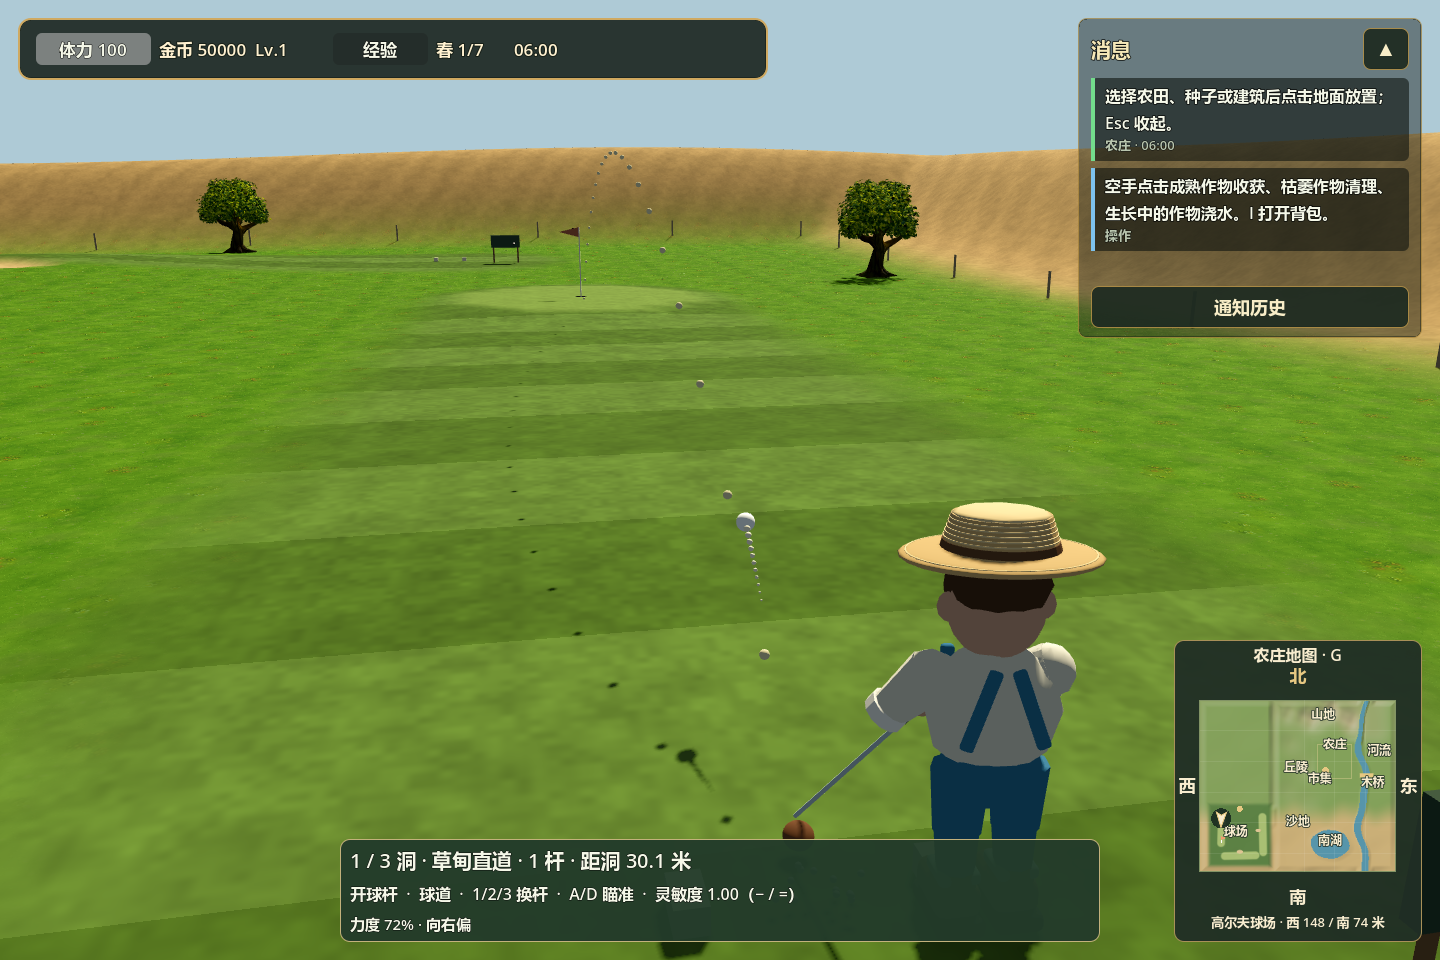
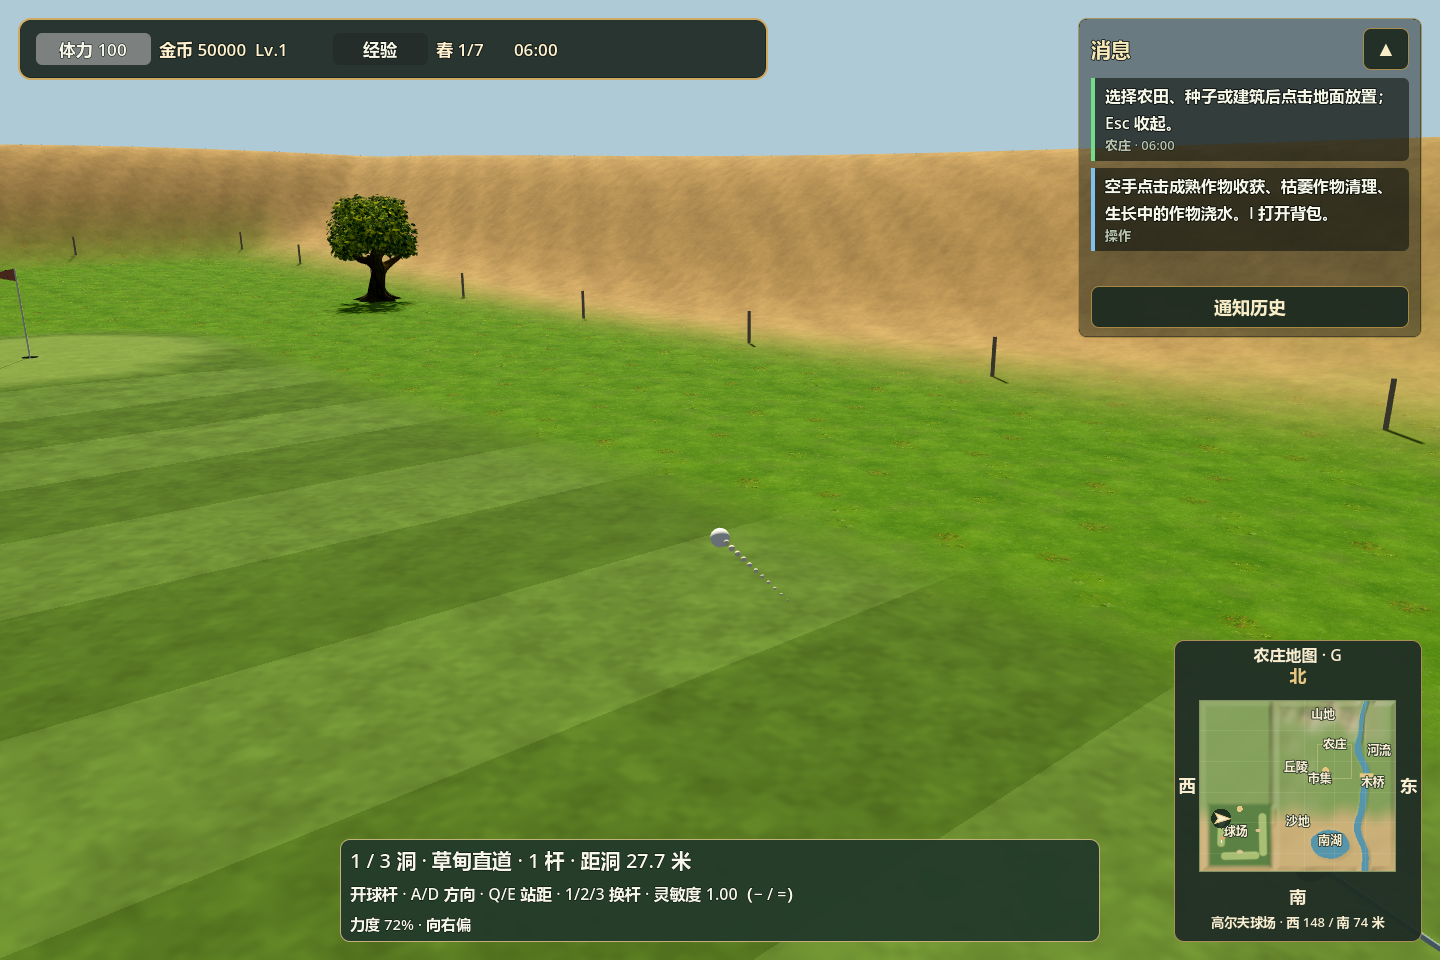
feat(golf): enhance golf mechanics and visuals with new contact point system, camera orbiting, and updated HUD

diff --git a/docs/validation/golf-3d.md b/docs/validation/golf-3d.md
@@ -7,17 +7,19 @@
 ## 操作
 
 1. 市集旁有“湖西高尔夫”路牌，沿小路走到球杆架（西 124 / 南 62 米）。靠近后点击告示牌或按 **E** 免费开始。
-2. 走到 1 号发球台的球旁，按 **E** 进入击球站位。
-3. **A/D** 微调瞄准，**1/2/3** 切换开球杆、挖起杆、推杆。果岭推荐推杆，沙坑推荐挖起杆。
+2. 走到 1 号发球台的球旁，按 **E** 进入击球站位。默认镜头中角色站在球右侧，右手主握、左手辅助，从右侧抬杆并向左挥出。
+3. **A/D** 微调瞄准，**Q/E** 调整人与球的站距（0.68–0.98 米）；**W/S 或滚轮** 上下调整触球点，操作条上的球形图示显示当前触球位置。击球下部配合大力度可挑起球，中心轻击则沿地面滚动。**1/2/3** 切换开球杆、挖起杆、推杆，并设置对应的默认触球点。果岭推荐推杆，沙坑推荐挖起杆。
 4. **按住鼠标左键，向后拉，再向前推过击球点**。后拉幅度决定蓄势，前推速度影响力度，左右偏移改变出球方向。球在角色下杆触球时发出。
 5. 球停稳后，使用 WASD、Shift 走到球旁继续。小地图标记球与旗杆，操作条显示距球、距洞距离。
 6. 进洞后步行到下一洞发球台，按 E 开始下一洞。三洞完成显示总杆数及个人最佳。
 
 提前松开左键会收杆，不计杆数。**Esc** 退出站位或跟球；已经击出的球继续运动。**− / =** 调整本次游戏的挥杆灵敏度，范围 0.4–2.0。**G** 继续控制小地图显隐。打开背包等面板会释放击球控制，不会卡住人物或鼠标。
 
+准备、挥杆与跟球时均可**按住右键拖动**转镜头，松开后保留视角。转镜头不改变瞄准；准备阶段右键会取消尚未击出的鼠标蓄势，重新按左键即可挥杆。蓄势时固定方向、站距和触球点，换杆可以取消蓄势。推杆和中心触球使用较短的摆杆动作，下部触球可使用完整挥杆动作。
+
 ![鼠标后拉蓄势](images/golf_3d_backswing.png)
 
-[站位](images/golf_3d_address.png) · [跟球](images/golf_3d_flight.png) · [球杆架](images/golf_3d_entrance.png) · [真实洞杯](images/golf_3d_cup.png)
+[站位](images/golf_3d_address.png) · [自由镜头](images/golf_3d_orbit.png) · [推杆准备](images/golf_3d_putting.png) · [向左送杆](images/golf_3d_followthrough.png) · [跟球](images/golf_3d_flight.png) · [球杆架](images/golf_3d_entrance.png) · [真实洞杯](images/golf_3d_cup.png)
 
 ## 场地与规则
 
@@ -41,9 +43,9 @@
 
 ## 验证
 
-- 高尔夫：70 项检查通过，并在实际 OpenGL 窗口中再次通过。覆盖真实鼠标后拉／前推、不同事件频率、取消收杆、球飞行／滚动／进洞、出界、洞杯碰撞、旧边界步行、逐洞结算、最佳成绩、主存档与旧版本兼容、背包中断和操作条尺寸。
-- 相关回归：正式场景 52、地形 64、南湖 52、小地图 22、目标系统 107、交互 44、钓鱼 105、市场 103、风车 112 项通过。
-- 上述检查合计 731 项，高尔夫的实际渲染复跑不重复计数。6 张截图来自正式场景。
+- 高尔夫：98 项检查通过，并在实际 OpenGL 窗口中再次通过。新增侧身站位、向左挥杆、发球标记避让、三阶段右键镜头、镜头与瞄准独立、W/S 与滚轮触球点、站距调整、起飞／推球和短摆杆验证；保留鼠标挥杆、计分、物理、存档兼容和界面中断检查。
+- 本次相关回归：交互 44、钓鱼 105、小地图 22、风车 112 项通过。
+- 本次检查合计 381 项，高尔夫的实际渲染复跑不重复计数。9 张截图来自正式场景。
 
 ```powershell
 godot_console.exe --headless --path . --script tests/run_3d_golf_tests.gd -- --farm-test

diff --git a/README.md b/README.md
@@ -105,7 +105,7 @@ docs/validation/              操作说明、验证结果和截图
 
 地图已扩展至 **256 × 224 米**，中央为原农庄平原，西侧为丘陵及新增湖西球场，北侧为山地，东侧河流穿过峡谷。南面从草地逐渐过渡到沙地，南湖有三处保留岸边钓位，河流和湖泊的其他合适岸边也能钓鱼。按 **Tab** 查看全景，按 **R** 返回农庄。原地形布局见[扩展地图说明](docs/validation/landscape-3d.md)，新增球场见下文。
 
-**高尔夫（C：鼠标挥杆）**：从市集旁“湖西高尔夫”路牌沿小路到球杆架（西 124 / 南 62 米），点击或按 **E** 免费开始。走到球旁按 **E** 站位，**按住左键向后拉鼠标，再向前推过击球点**；后拉幅度与前推速度影响力度，横向偏移影响出球方向。**A/D** 瞄准，**1/2/3** 选择开球杆、挖起杆、推杆，**− / =** 调整本次游戏的挥杆灵敏度。球停后走过去继续，进洞后前往下一发球台按 E。三洞计分并保存个人最佳，Esc 退出站位／跟球。实景与验证见[高尔夫说明](docs/validation/golf-3d.md)。
+**高尔夫（C：鼠标挥杆）**：从市集旁“湖西高尔夫”路牌沿小路到球杆架（西 124 / 南 62 米），点击或按 **E** 免费开始。走到球旁按 **E** 站位，角色右手主握杆、向左挥击。**A/D** 瞄准，**Q/E** 调整站距，**W/S 或滚轮** 上下调整触球点；球下部配合大力度可以挑高，中心轻击可以推球。**按住左键向后拉鼠标，再向前推过击球点**；后拉幅度与前推速度影响力度，横向偏移影响出球方向。**右键拖动** 可在准备、挥杆和跟球时转动镜头。**1/2/3** 选择开球杆、挖起杆、推杆，**− / =** 调整本次游戏的挥杆灵敏度。球停后走过去继续，进洞后前往下一发球台按 E。三洞计分并保存个人最佳，Esc 退出站位／跟球。实景与验证见[高尔夫说明](docs/validation/golf-3d.md)。
 
 右下角小地图默认显示，按 **G** 关闭／打开，固定上北、下南、左西、右东；浅色箭头显示人物位置和朝向，标出农庄、山地、丘陵、河流、木桥、沙地及南湖。底部显示所在区域与相对原农庄中心（世界原点）的东西／南北距离（米），旋转相机不会改变地图方向。
 
